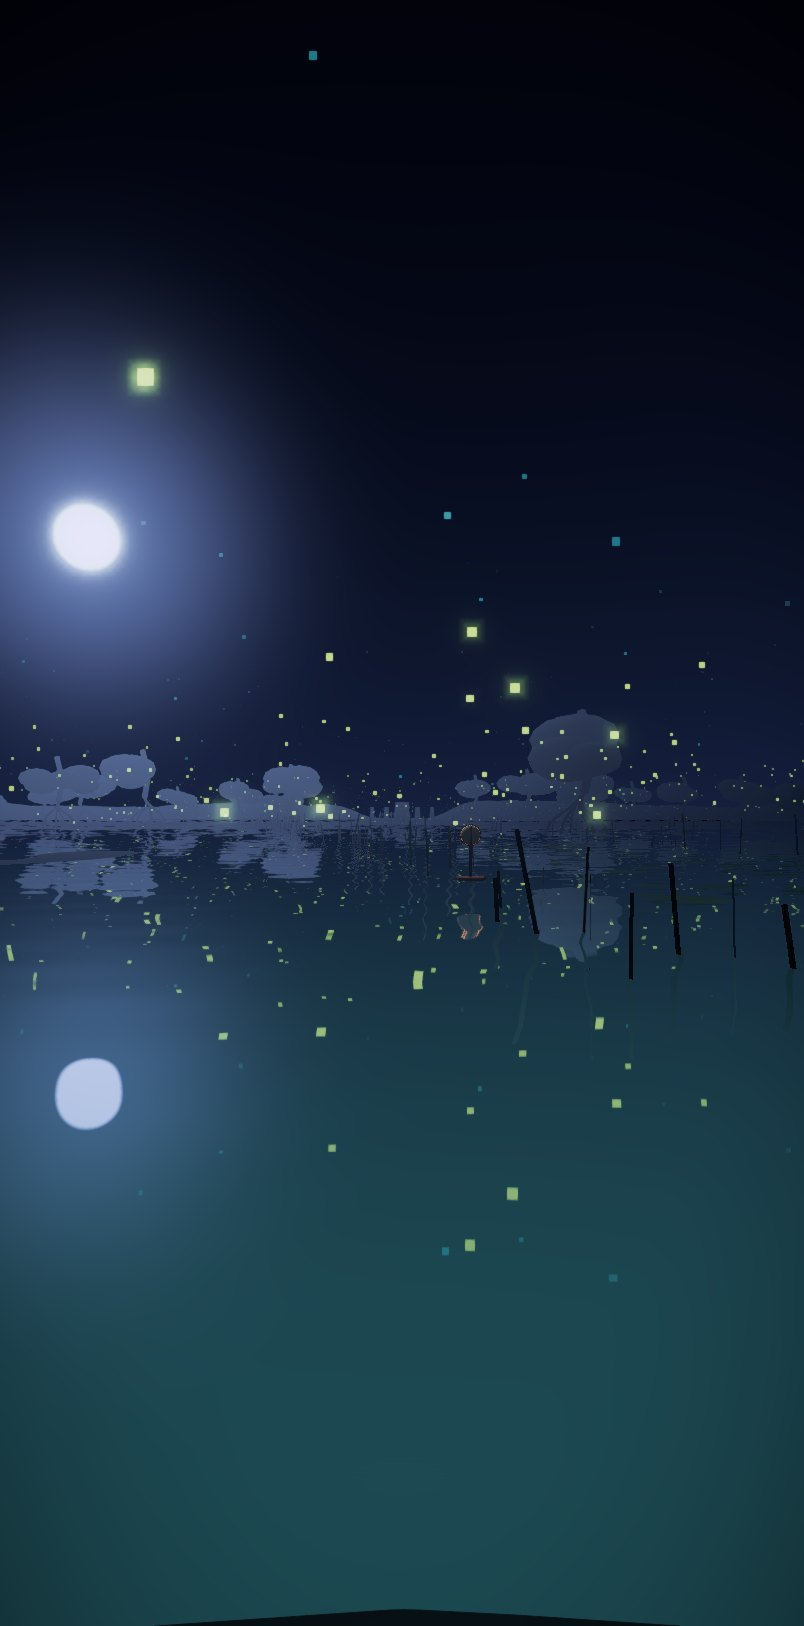
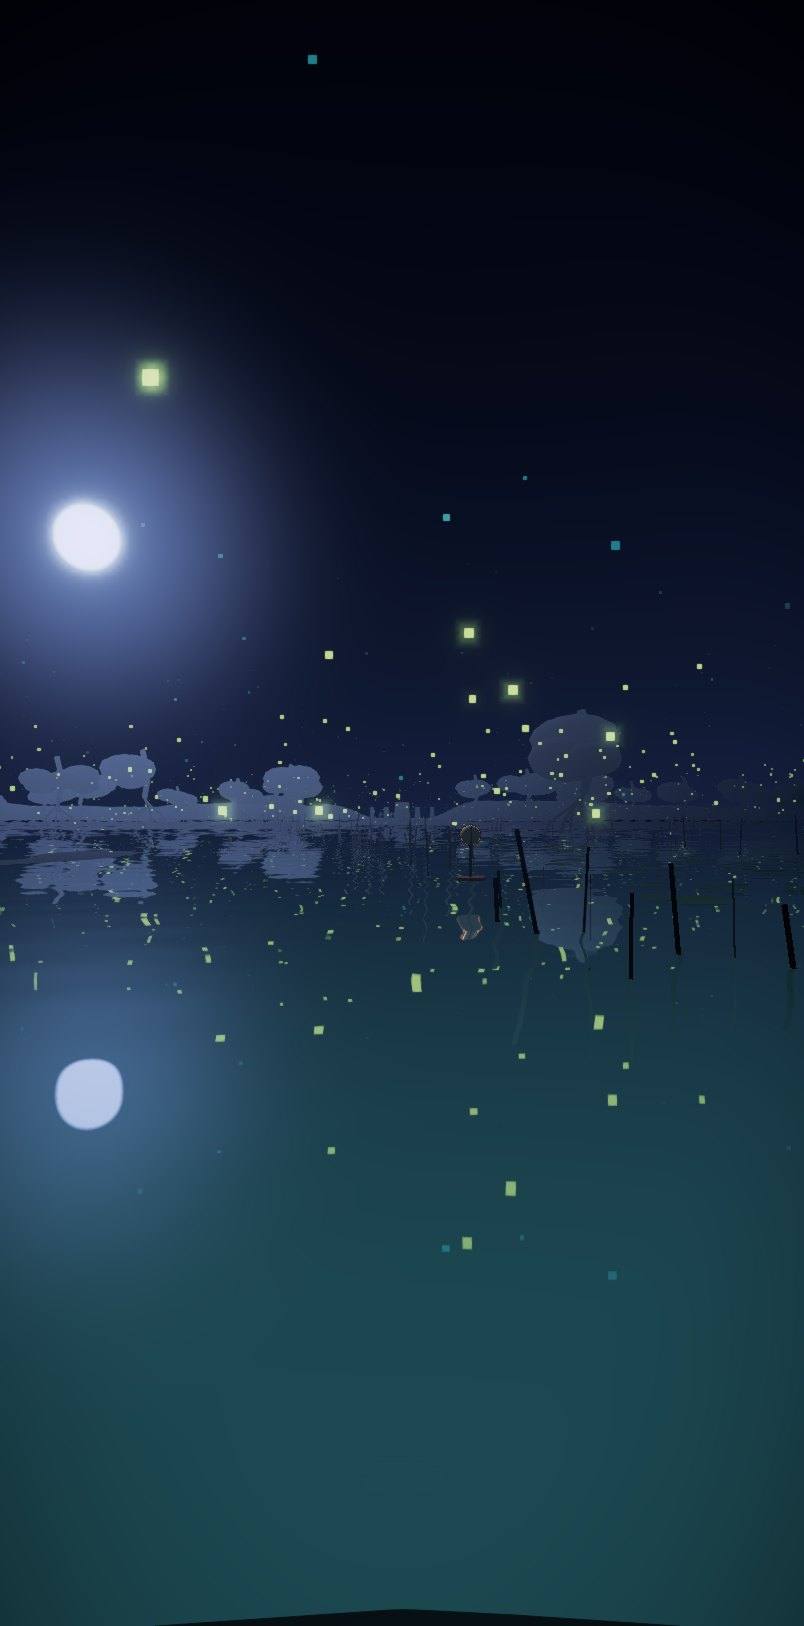
feat(glowfen): set lanterns light the fen
Meta MOSSGATE-ZONE MZ32 (QA 11-19 row 35, Jake: "I'm setting these
lanterns and nothing happens. It's just so anticlimactic."). A
lantern set in a shrine socket now lights the platform round its
post with a warm glow and a spire of light, for that player. The
full shrine is the finale: a pillar of light over the dome, the
island ringed in light, and every lantern post and the trail from
the jetty lit, for everyone. Drawn glow in the panels (meshes only
until MZ34 brings lamps to panels). Hero recaptured from a local dev
build of this tree.

Assisted-by: Claude Code:claude-opus-5-5

diff --git a/src/generators/world.ts b/src/generators/world.ts
@@ -231,6 +231,16 @@ export function lanterns(part: THREE.Group, M: Materials, world: ShardWorld): vo
   part.add(new THREE.Mesh(merged(globes), M.lantern), new THREE.Mesh(merged(cages), M.plank));
 }
 
+/** MZ32 (meta MOSSGATE-ZONE, QA 11-19 row 35: "I'm setting these lanterns and nothing happens"): a light laid on the
+ *  ground, three soft discs (a panel holds meshes only, so the glow is drawn: MZ34 brings real lamps to panels). */
+function glowPool(into: THREE.Group, x: number, y: number, z: number, radius: number, colour: string): void {
+  for (const [r, opacity, lift] of [[1, 0.22, 0.02], [0.66, 0.34, 0.03], [0.36, 0.5, 0.04]] as const) {
+    const material = new THREE.MeshStandardMaterial({ color: colour, emissive: colour, emissiveIntensity: 1.4, roughness: 1, transparent: true, opacity, depthWrite: false });
+    const disc = new THREE.Mesh(new THREE.CircleGeometry(radius * r, 32), material);
+    disc.rotation.x = -Math.PI / 2; disc.position.set(x, y + lift, z); into.add(disc);
+  }
+}
+
 /**
  * SS-GF1a2: the shrine's six posts are sockets. Setting a spirit lantern on one (its prompt) writes that player's own
  * `glowfen.socket.N`, and the post's globe glows for them alone (a panel shown by that player field, never solid).
@@ -244,6 +254,10 @@ export function sockets(world: ShardWorld, M: Materials): void {
     });
     world.part(`socket-${String(i + 1)}-glow`, (part) => {
       part.add(new THREE.Mesh(new THREE.SphereGeometry(0.28, 16, 12), M.lantern).translateX(x).translateY(3.3).translateZ(z));
+      // MZ32: a set lantern lights the island round its post, and its light stays
+      part.add(new THREE.Mesh(new THREE.CylinderGeometry(0.05, 0.22, 2.4, 10), M.lantern).translateX(x).translateY(4.7).translateZ(z));
+      // on the shrine's stone platform (its top is 0.85 m), not the fen floor under it
+      glowPool(part, x, 0.86, z, 4.5, '#ffc46a');
     }, { panel: `${id}.glow`, shownWhen: { field: id, equals: true } });
   }
 }
@@ -259,6 +273,23 @@ export function shrineFlame(world: ShardWorld, M: Materials): void {
   });
   world.part('shrine-flame', (part) => {
     part.add(new THREE.Mesh(new THREE.SphereGeometry(0.9, 20, 14), M.lantern).translateX(SHRINE.x).translateY(5.4).translateZ(SHRINE.z));
+    // MZ32, the finale: the full shrine lights the fen. A pillar of light over the dome, the island ringed in light, and every
+    // lantern's post and the trail back to the jetty glowing, so the whole run you walked is lit behind you.
+    part.add(new THREE.Mesh(new THREE.CylinderGeometry(0.35, 1.1, 26, 16, 1, true), M.lantern).translateX(SHRINE.x).translateY(19).translateZ(SHRINE.z));
+    glowPool(part, SHRINE.x, 0.86, SHRINE.z, 13, '#8ff0ff');
+    for (let i = 0; i < 24; i++) {
+      const a = (i / 24) * Math.PI * 2, x = SHRINE.x + Math.cos(a) * 9.5, z = SHRINE.z + Math.sin(a) * 9.5;
+      part.add(new THREE.Mesh(new THREE.SphereGeometry(0.22, 10, 8), M.lantern).translateX(x).translateY(Math.max(WATER_LEVEL, groundHeight(x, z)) + 0.5).translateZ(z));
+    }
+    for (const l of LANTERNS) glowPool(part, l.x, Math.max(WATER_LEVEL, groundHeight(l.x, l.z)), l.z, 7, '#ffc46a');
+    for (let leg = 0; leg < TRAIL.length - 1; leg++) {
+      const a = TRAIL[leg], b = TRAIL[leg + 1]; if (a === undefined || b === undefined) continue;
+      const n = Math.max(1, Math.round(Math.hypot(b.x - a.x, b.z - a.z) / 6));
+      for (let k = 1; k < n; k++) {
+        const x = a.x + ((b.x - a.x) * k) / n, z = a.z + ((b.z - a.z) * k) / n;
+        glowPool(part, x, Math.max(WATER_LEVEL, groundHeight(x, z)), z, 2.4, '#9ff4c8');
+      }
+    }
   }, { panel: 'glowfen.shrine.flame', shownWhen: { field: 'glowfen.shrine.lights', equals: 6 } });
 }
 

diff --git a/project/journal/2026-11-19-lanterns-light-the-fen.md b/project/journal/2026-11-19-lanterns-light-the-fen.md
@@ -1,0 +1,8 @@
+# Set lanterns light the fen
+
+> Written by: Claude (opus-mossgate-3), 2026-11-19
+
+Meta MOSSGATE-ZONE MZ32, QA 11-19 row 35: setting the spirit lanterns did nothing you could see. A set socket now lights
+the shrine platform round its post (warm glow discs and a spire), and the full shrine lights the fen for everyone: a
+pillar over the dome, the island ringed in light, the six lantern posts and the trail back to the jetty glowing. The
+glow is drawn (a panel holds meshes only); MZ34 brings real lamps to panels.
